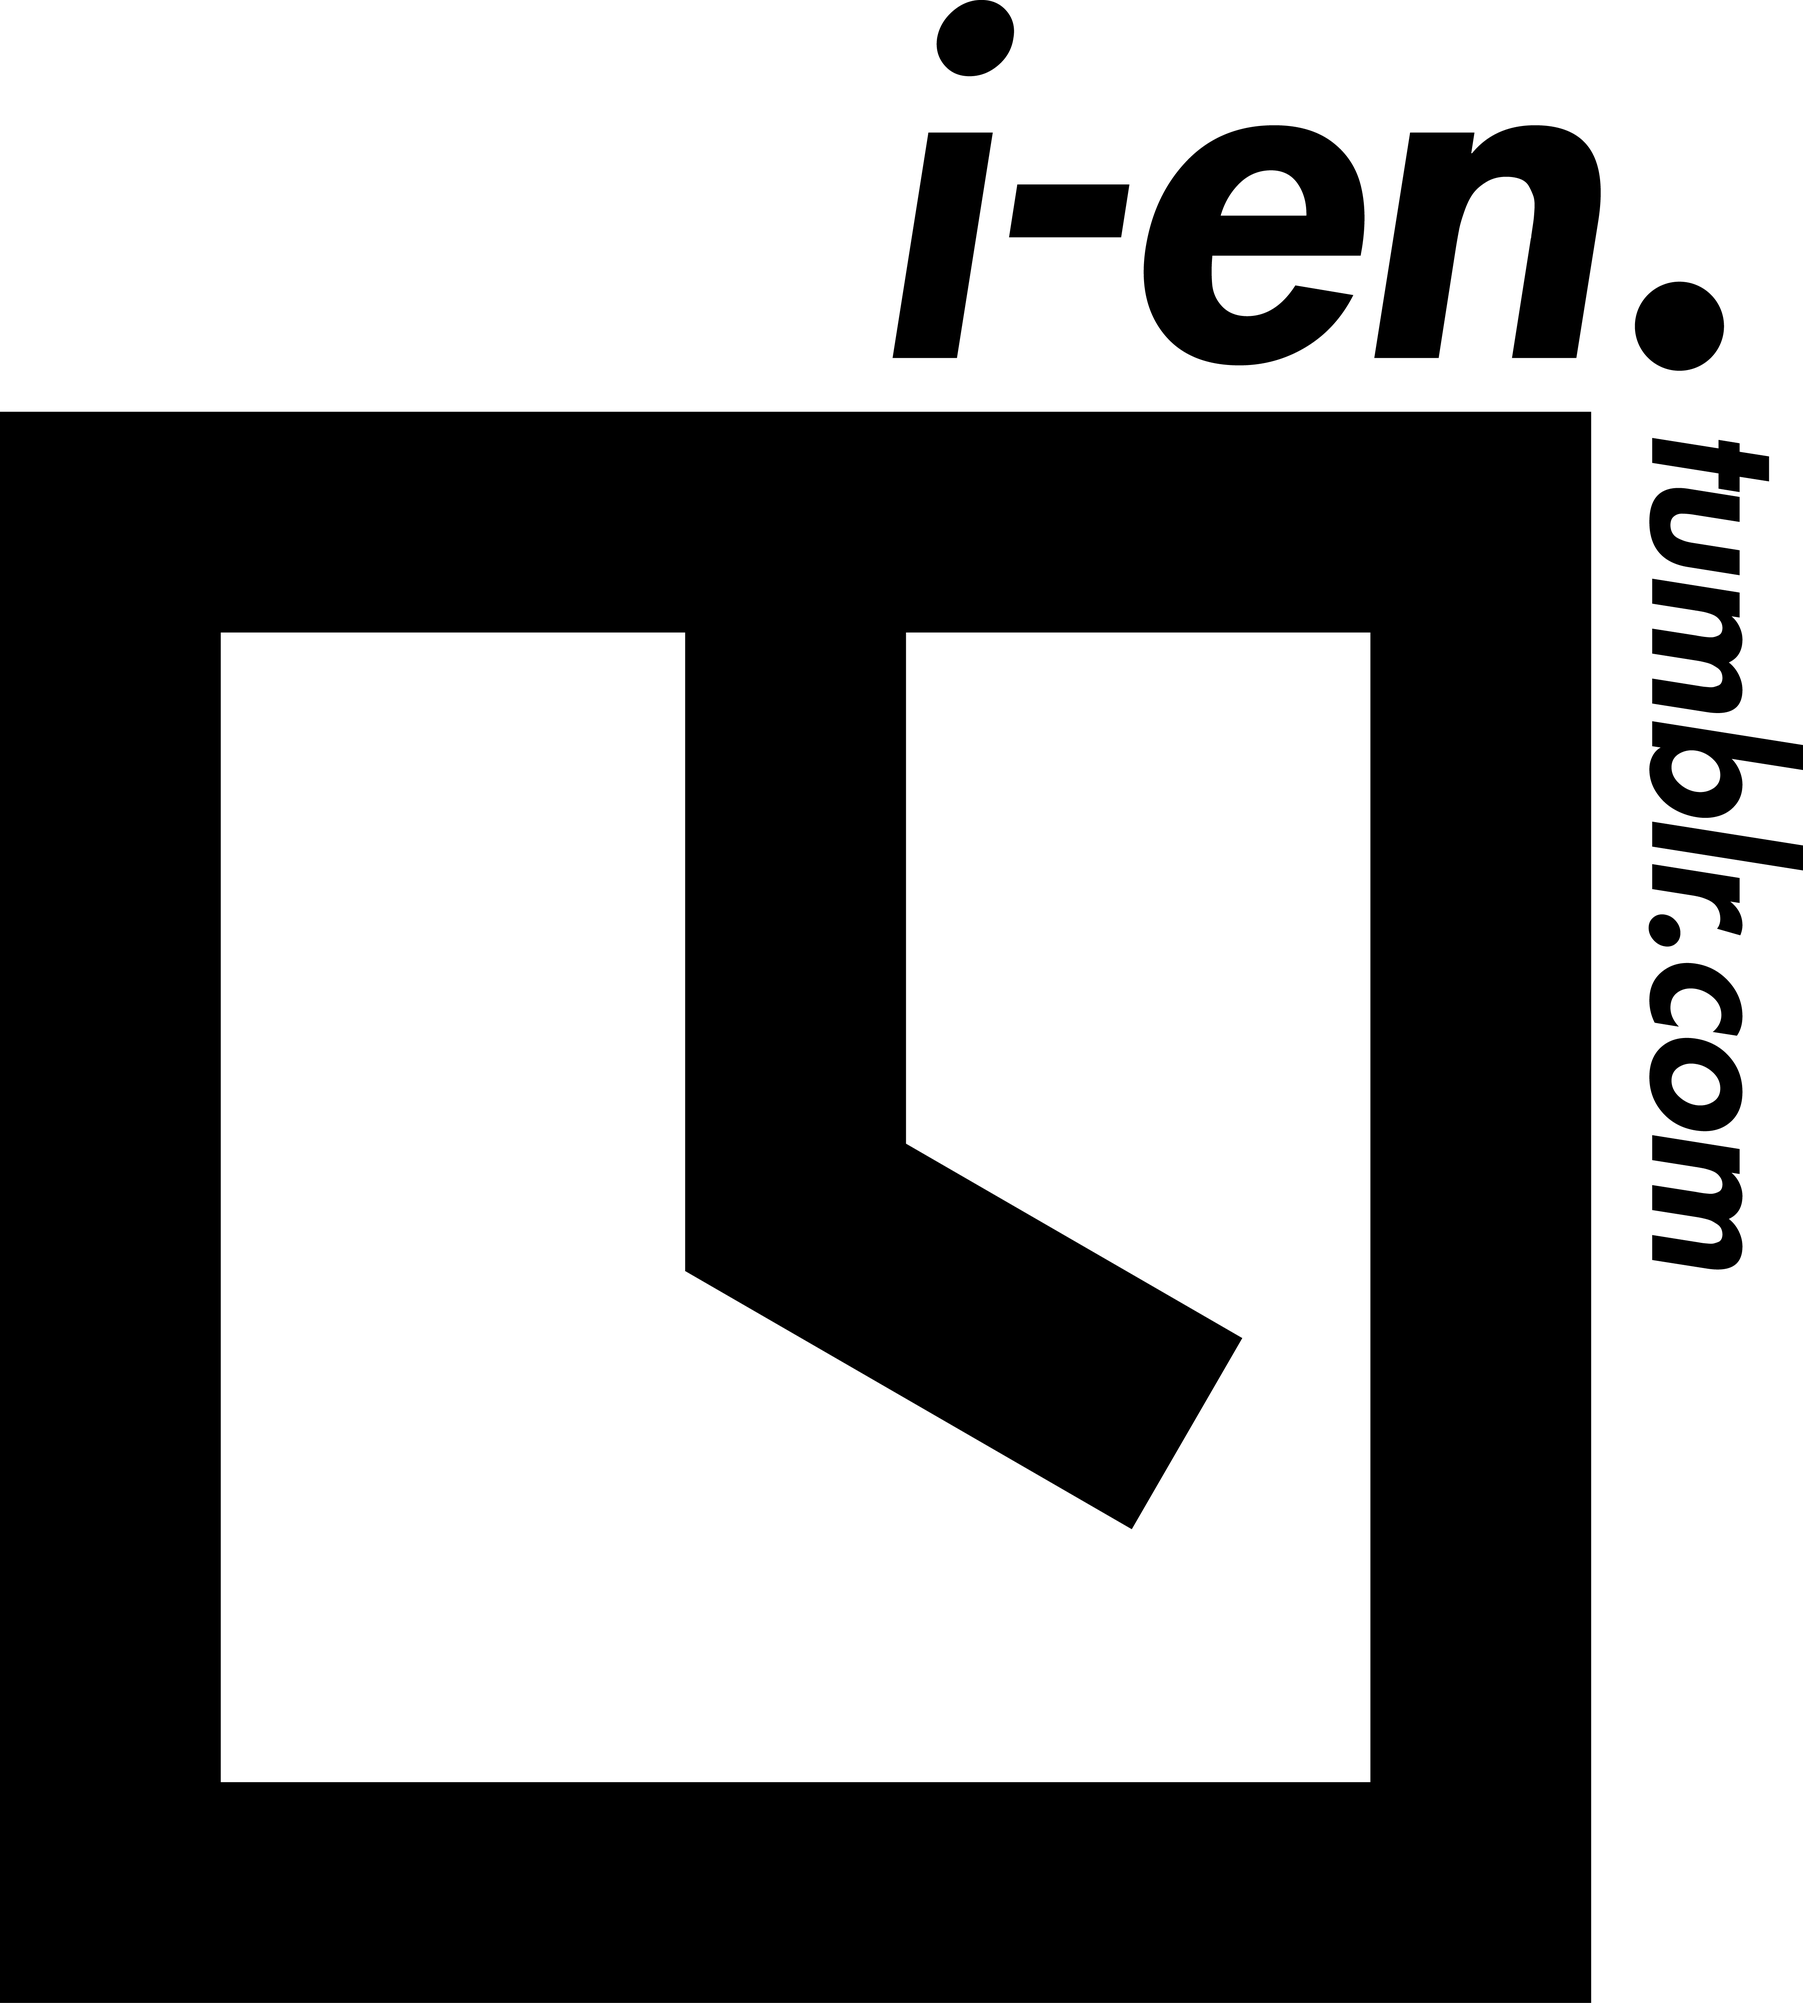
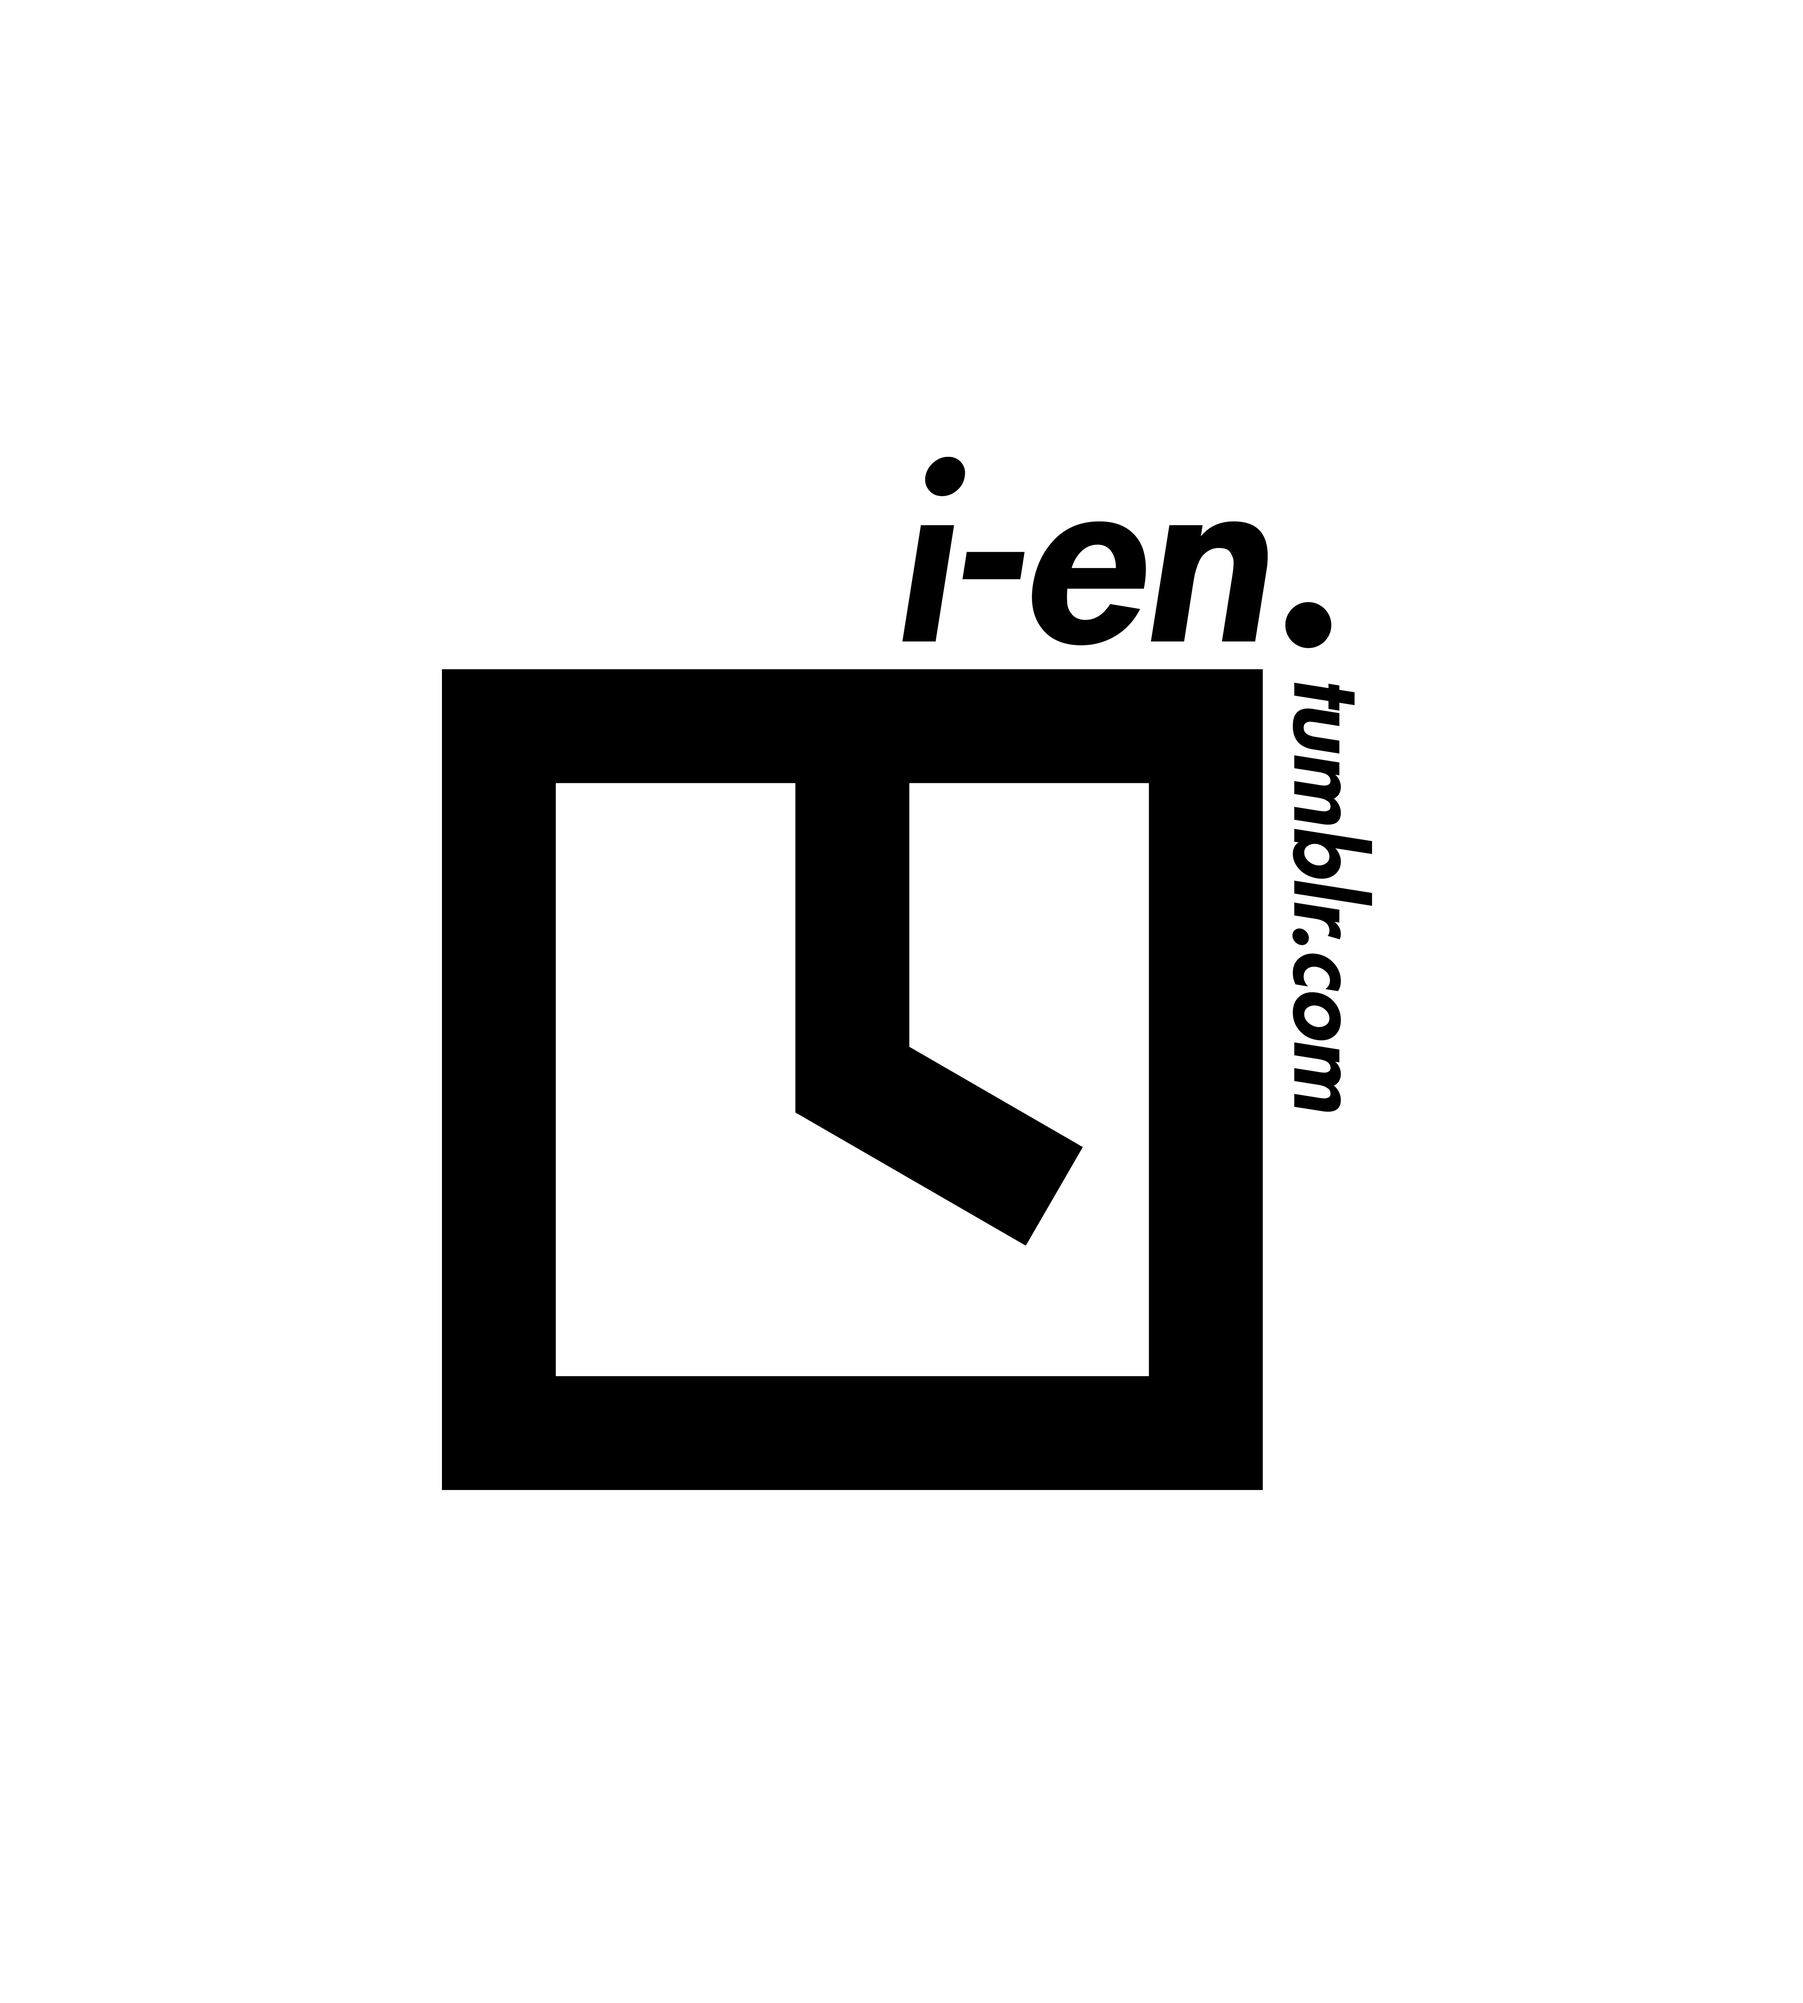
Fix square image styling.

diff --git a/index.html b/index.html
@@ -106,13 +106,14 @@
 							  <a href="http://www.pizzanova.com"><img src="images/sponsors/pizza-nova.gif" alt="PizzaNova"
 							  <a href="http://www.eventmobi.com/"><img src="images/sponsors/eventmobi.png" alt="Eventmobi"></a>
 							  <a href="http://www.intuit.com"><img src="images/sponsors/intuit.gif" alt="Intuit"></a>
-							  <img src="images/sponsors/slef.jpg" alt="McMaster University Engineering">
+							  <img src="images/sponsors/slef.jpg" alt="McMaster University Engineering" id="square">
 						  </div>
 
 						  <div id="level3">
 						  	<a href="http://graphicstock.com"><img src="images/sponsors/graphic-stock.jpg" alt="GraphicStock"></a>
 						  	 <a href="http://www.morganstanley.com"><img src="images/sponsors/morganstanley.jpg" alt="MorganStanley"></a>
 						  </div>
+
 						  <div id="level2">
 						  	<a href="http://www.geowb.com/"><img src="images/sponsors/geographers-without-borders.png" alt="Geographers without borders"></a>
 						  	<a href="https://www.nymi.com/"><img src="images/sponsors/nymi.png" alt="Nymi Band"></a>
@@ -139,7 +140,7 @@
 							  <a href="https://mongolab.com"><img src="images/sponsors/MongoLab.png" alt="MongoLab"></a>
 							  <a href="http://macgda.com"><img src="images/sponsors/MacGDA.png" alt="MacGDA"></a>
 							  <a href="http://www.bitalino.com"><img src="images/sponsors/bitalino.png" alt="Bitalino"></a>
-							  <img src="images/sponsors/ien.png" alt="Ien">
+							  <img src="images/sponsors/ien.png" alt="Ien" id="square">
 						  </div>
 
 						<h2>Partners</h2>

diff --git a/css/style.css b/css/style.css
@@ -1055,7 +1055,7 @@ p {
 }
 
 #square {
-	max-height: 140px;
+	margin: -40px;
 }
 
 .faq-footer {
